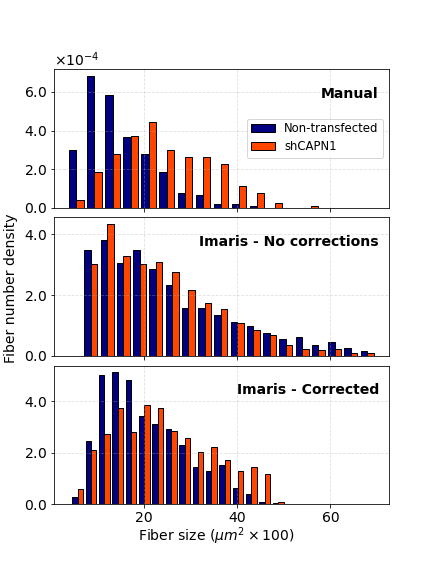
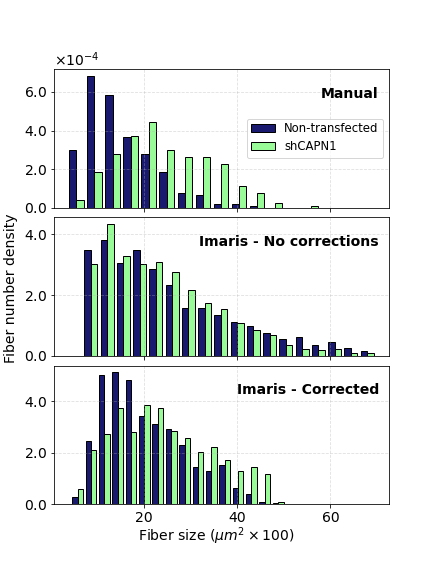
supplementary figures created

diff --git a/prototype.py b/prototype.py
@@ -179,30 +179,36 @@ A_val = np.array([A.value for A in A_stats])
 A_err = np.array([A.errorbar() for A in A_stats]).T
 
 # %%
-def plot_statistics_bar(values, errors, experiment_labels, statistic_name, p_values, star_offset = 0.4):
+from matplotlib import ticker
+def plot_statistics_bar(values, errors, experiment_labels, experiment_name, statistic_name, p_values):
     x = np.arange(len(A_stats))
-
+    
     fig, ax = plt.subplots(1, 1, figsize = (4, 4))
-    ax.bar(x, values, yerr = errors, color = "mediumslateblue", edgecolor = "black", capsize = 4.0)
-    #ax.axhline(y = 0.5, linestyle = "--", color = "firebrick", linewidth = 2.0, alpha = 0.7)
+    ax.bar(x, values, yerr = errors, color = "palegreen", edgecolor = "black", capsize = 4.0)
+    ax.axhline(y = 0.5, linestyle = "--", color = "firebrick", linewidth = 2.0, alpha = 0.8)
     
     ax.set_xticks(x)
     ax.set_xticklabels(experiment_labels, fontsize = "small")
-    ax.set_ylabel(statistic_name)
+    ax.set_ylabel(f"{statistic_name}\n(non-transfected vs {experiment_name})", fontsize = "small")
+    y_lim = (0, 1)
     for i, p in enumerate(p_values):
         if p < 0.001:
-            ax.text(i, values[i]+star_offset, "***", horizontalalignment = "center")
+            ax.text(i, 0.65*y_lim[1], "***", horizontalalignment = "center")
     ax.grid(alpha = 0.3)
-    ax.set_ylim((0, 0.25))
+    ax.set_ylim(y_lim)
+    ax.text(0.4, 0.82*y_lim[1], "***: $p < 0.001$ for the\nBrunner-Munzel test", fontsize = "small", horizontalalignment = "left", bbox = {"facecolor": "none", "edgecolor": "lightgrey"})
+    #major_tick_loc = ticker.MultipleLocator(base = 0.05)
+    #ax.yaxis.set_major_locator(major_tick_loc)
+
     fig.tight_layout()
     return fig
 # %%
 p_vals = [0, 0.86, 0]
-fig = plot_statistics_bar(A_val, A_err, exp_labels, "A statistic", p_vals)
+fig = plot_statistics_bar(A_val, A_err, exp_labels, "shCAPN1", "A statistic", p_vals)
 #plt.savefig("./figures/figure4C.png")
 # %%
 p_vals = [0.94, 0, 0.33]
-fig = plot_statistics_bar(A_val, A_err, exp_labels, "A statistic", p_vals)
+fig = plot_statistics_bar(A_val, A_err, exp_labels, "shLacz", "A statistic", p_vals)
 #plt.savefig("./figures/figure5C.png")
 # %%
 import scipy.stats as scstats
@@ -211,8 +217,8 @@ KS_test_results = np.array([scstats.ks_2samp(*df_columns_to_arrays(df)) for df i
 KS_vals = KS_test_results[:,0]
 p_vals = KS_test_results[:,1]
 
-fig = plot_statistics_bar(KS_vals, None, exp_labels, "KS statistic", p_vals, 0.1)
-plt.savefig("./figures/figure5D.png")
+fig = plot_statistics_bar(KS_vals, None, exp_labels, "shLacz", "KS statistic", p_vals)
+#plt.savefig("./figures/figure5D.png")
 # %%
 sample1 = np.array(fed_fast_dataset[0].iloc[:,0], dtype = float)
 sample2 = np.array(fed_fast_dataset[0].iloc[:,1], dtype = float)
@@ -262,49 +268,11 @@ stat = Statistic(*output, "A_statistic")
 print(stat)
 
 # %%
-sample1, sample2 = shLacz_dataset[0].iloc[:,0], shLacz_dataset[0].iloc[:,1]
-sample1, sample2 = np.array(sample1, dtype = float), np.array(sample2, dtype = float)
-scstats.epps_singleton_2samp(sample1, sample2)
+
 
 # %%
-data_ind = 1
-sample1, sample2 = shLacz_dataset[data_ind].iloc[:,0], shLacz_dataset[data_ind].iloc[:,1]
-scstats.ks_2samp(sample1, sample2)
 # %%
 
-import statsmodels.stats as ststats
-
-def calculate_descriptive_stats(dataframe, column_index):
-    data_array = np.array(dataframe.iloc[:, column_index], dtype = float)
-    des_stats = ststats.descriptivestats.describe(data_array)
-    return des_stats
-
-def plot_descr_stats_table(dataframe_list, label_list, statistics_names):
-    fig, axes = plt.subplots(1, 2, figsize = (10, 3.5))
-    exp_names = dataframe_list[0].columns
-
-    for i, ax in enumerate(axes):
-        output = pd.concat([calculate_descriptive_stats(df, i) for df in dataframe_list], axis = 1) 
-        data = output.loc[statistics_names].values
-        table = ax.table(cellText = np.around(data, 2), colLabels = label_list, rowLabels = statistics_names, loc = "center", cellLoc = "center")
-        table.scale(1, 2)
-
-        ax.axis("off")
-        ax.axis("tight")
-        ax.set_title(exp_names[i])
-    
-    return fig, axes
-# %%
-ststats.descriptivestats.describe(sample0)
-# %%
-
-# %%
-labels = ["Manual", "Automated", "Corrected"]
-stat_names = ["median", "mean", "std", "skew"]
-fig, axes = plot_descr_stats_table(fed_fast_dataset, labels, stat_names)
-fig.suptitle("Descriptive statistics for mouse muscle fiber size distribution")
-plt.tight_layout()
-#plt.savefig("./figures/fed_fast - descrptive statistics.png")
 # %%
 col_ind = 1
 sample0 = np.array(fed_fast_dataset[0].iloc[:, col_ind], dtype = float)
@@ -407,4 +375,146 @@ ax.set_xlim((-5, 5))
 ax.set_ylim((-0.01, 1))
 ax.legend()
 plt.savefig("./figures/distribution_skew.png")
+# %%
+import matplotlib.pyplot as plt
+import scipy.stats as scstats
+
+def Supplementary_Figure1A():
+    x = np.linspace(-4, 4, 100)
+    norm1 = scstats.norm(scale = 0.5)
+    norm2 = scstats.norm(scale = 1.0)
+    
+    fig, ax = plt.subplots(1, 1, figsize = (7, 5))
+    ax.plot(x, norm1.pdf(x), linewidth = 2.0)
+    ax.fill_between(x, norm1.pdf(x), alpha = 0.5, label = "Method 1: $N(0, 0.5^2)$")
+    ax.plot(x, norm2.pdf(x), linewidth = 2.0)
+    ax.fill_between(x, norm2.pdf(x), alpha = 0.5, label = "Method 2: $N(0, 1^2)$")
+    
+    #ax.axvline(x = 0.0, color = "black", linewidth = 2.0, linestyle = "--", alpha = 0.4)
+    ax.text(0.0, 0.9, "Identical means (0.0)\nDifferent stdev (0.5 vs 1.0)", horizontalalignment = "center", fontsize = "small")
+    
+    ax.set_ylim((0, 1.5))
+    ax.set_xlim((-5, 5))
+    
+    ax.grid(alpha = 0.4)
+    ax.legend(fontsize = "small")
+    
+    return fig
+fig = Supplementary_Figure1A()
+#plt.savefig("./figures/supplementary_figure1A.png")
+# %%
+def Supplementary_Figure1B():
+    x = np.linspace(-5, 5, 100)
+    sigma1, sigma2 = 0.5, 2.0
+    ratio = 0.4
+    norm1_1 = scstats.norm(scale = sigma1)
+    norm1_2 = scstats.norm(scale = sigma2)
+    var = ratio*sigma1**2+(1-ratio)*sigma2**2
+    sigma = np.sqrt(var)
+    norm2 = scstats.norm(scale = sigma)
+    y1 = ratio*norm1_1.pdf(x)+(1-ratio)*norm1_2.pdf(x)
+    y2 = norm2.pdf(x)
+    fig, ax = plt.subplots(1, 1, figsize = (7, 5))
+    ax.plot(x, y1, linewidth = 2.0)
+    ax.fill_between(x, y1, alpha = 0.5, label = f"Method 1: ${ratio} \cdot N(0, {sigma1}^2)+{1-ratio} \cdot N(0, {sigma2}^2)$")
+    ax.plot(x, y2, linewidth = 2.0)
+    ax.fill_between(x, y2, alpha = 0.5, label = f"Method 2: $N(0, {var})$")
+    
+    #ax.axvline(x = 0.0, color = "black", linewidth = 2.0, linestyle = "--", alpha = 0.4)
+    text = f"Identical means (0.0)\nIdentical medians (0.0)\nIdentical stdev ({sigma :.2f})\nIdentical skewness (0.0)"
+    ax.text(0.0, 0.5, text, horizontalalignment = "center", fontsize = "small")
+    
+    ax.set_ylim((0, 1.0))
+    ax.set_xlim((-6, 6))
+    
+    ax.grid(alpha = 0.4)
+    ax.legend(fontsize = "small")
+    
+    return fig
+fig = Supplementary_Figure1B()
+#plt.savefig("./figures/supplementary_figure1B.png")
+# %%
+def Supplementary_Figure2():
+    fig, axes = plt.subplots(1, 2, figsize = (8, 3))
+    x = np.linspace(-4, 4, 100)
+
+    def _shifted_distributions(ax):
+        Dx = 3.0
+        norm1 = scstats.norm()
+        norm2 = scstats.norm(loc = Dx)
+        y1 = norm1.pdf(x)
+        y2 = norm2.pdf(x+Dx)
+        ax.plot(x, y1)
+        ax.fill_between(x, y1, alpha = 0.5, label = 'Before')
+        ax.plot(x+Dx, y2)
+        ax.fill_between(x+Dx, y2, alpha = 0.5, label = 'After')
+        ax.set_xlim((-5, 5+Dx))
+        ax.legend()
+        return ax
+
+    def _skewed_distributions(ax):
+        dist1 = scstats.norm()
+        dist2 = scstats.gumbel_l(loc = 2.0)
+        y1 = dist1.pdf(x)
+        y2 = dist2.pdf(x)
+        ax.plot(x, y1)
+        ax.fill_between(x, y1, alpha = 0.5, label = 'Before')
+        ax.plot(x, y2)
+        ax.fill_between(x, y2, alpha = 0.5, label = 'After')
+        ax.set_xlim((-5, 5))
+        ax.legend()
+        return ax
+
+    axes[0] = _shifted_distributions(axes[0])
+    axes[0].set_title("Distribution shifted", fontsize = "medium")
+    axes[1] = _skewed_distributions(axes[1])
+    axes[1].set_title("Skewness change induced", fontsize = "medium")
+    for ax in axes:
+        ax.set_ylim((-0.01, 0.7))
+        ax.grid(alpha = 0.4)
+    return fig
+
+fig = Supplementary_Figure2()
+fig.tight_layout()
+#plt.savefig("./figures/supplementary_figure2.png")
+# %%
+def Supplementary_Figure3():
+    fig, axes = plt.subplots(1, 3, figsize = (12, 3))
+    x = np.linspace(-4, 4, 100)
+
+    sigma1, sigma2 = 1.0, 0.7
+    def _plot_double_gaussians(ax, mu1, mu2):
+        norm1 = scstats.norm(loc = mu1, scale = sigma1)
+        norm2 = scstats.norm(loc = mu2, scale = sigma2)
+        x1, x2 = x+mu1, x+mu2
+        y1, y2 = norm1.pdf(x1), norm2.pdf(x2)
+        ax.plot(x1, y1)
+        ax.fill_between(x1, y1, alpha = 0.5, label = 'Distribution 1')
+        ax.plot(x2, y2)
+        ax.fill_between(x2, y2, alpha = 0.5, label = 'Distribution 2')
+        ax.legend(fontsize = "small", loc = "upper right")
+        ax.set_ylim((0, 1.0))
+        ax.grid(alpha = 0.6)
+        return ax
+    
+    A_text_loc = (0.2, 0.8)
+    axes[0] = _plot_double_gaussians(axes[0], 0.0, 1.0)
+    axes[0].text(*A_text_loc, "$A < 0.5$", horizontalalignment = "center", fontweight = "bold", transform = axes[0].transAxes)
+    axes[0].set_title("1 is stochastically less than 2", fontsize = "small")
+
+    axes[1] = _plot_double_gaussians(axes[1], 0.0, 0.0)
+    axes[1].text(*A_text_loc, "$A = 0.5$", horizontalalignment = "center", fontweight = "bold", transform = axes[1].transAxes)
+    axes[1].set_title("1 is stochastically equal to 2", fontsize = "small")
+
+    axes[2] = _plot_double_gaussians(axes[2], 0.0, -1.0)
+    axes[2].text(*A_text_loc, "$A > 0.5$", horizontalalignment = "center", fontweight = "bold", transform = axes[2].transAxes)
+    axes[2].set_title("1 is stochastically greater than 2", fontsize = "small")
+    
+    axes[2].text(-1, 0.01, u"\u2193", color = "mediumblue", fontweight = "bold", fontsize = "large")
+    axes[2].text(0.7, 0.01, u"\u2193", color = "saddlebrown", fontweight = "bold", fontsize = "large")
+    return fig
+
+fig = Supplementary_Figure3()
+fig.tight_layout()
+#plt.savefig("./figures/supplementary_figure3.png")
 # %%

diff --git a/visualizations.py b/visualizations.py
@@ -31,7 +31,7 @@ def plot_histogram(dataframe, ax = None, **hist_kwargs):
     labels = list(dataframe.columns)
     ax = configure_axis(ax)
     
-    ax.hist(counts, label = labels, density = True, color = ["navy", "orangered"], edgecolor = "black", **hist_kwargs)
+    ax.hist(counts, label = labels, density = True, color = ["midnightblue", "palegreen"], edgecolor = "black", **hist_kwargs)
 
     ax.xaxis.set_major_formatter(scaled_tick_format(scale = 100))
     ax.yaxis.set_major_formatter(SciNotationFormatter(-4, "%1.1f"))
